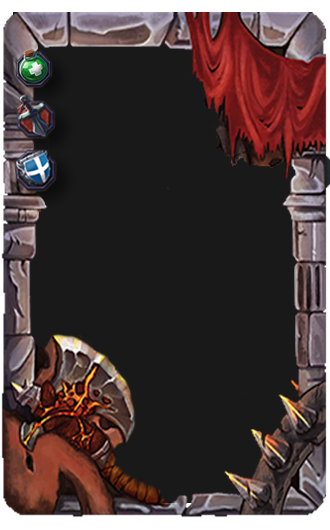
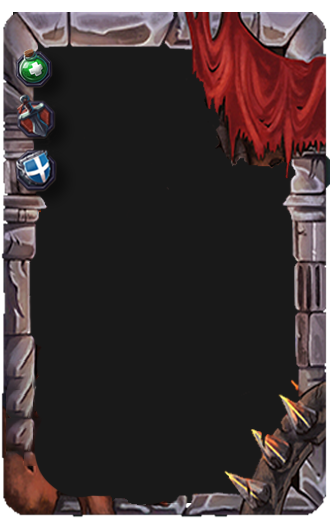
animasi hero

Changed region(s): [[0.0, 0.634, 0.4848, 0.966]]

diff --git a/src/project/pbo/states/GameState.java b/src/project/pbo/states/GameState.java
@@ -4,10 +4,7 @@ import project.pbo.Handler;
 import project.pbo.account.User;
 import project.pbo.game.Card;
 import project.pbo.game.PlayerCard;
-import project.pbo.game.enemy.Enemy;
-import project.pbo.game.enemy.Mummy;
-import project.pbo.game.enemy.Shaman;
-import project.pbo.game.enemy.Slime;
+import project.pbo.game.enemy.*;
 import project.pbo.game.helper.*;
 import project.pbo.gfx.Assets;
 import project.pbo.gfx.Text;
@@ -25,6 +22,9 @@ public class GameState extends State implements SIZE {
     private int gold = 0;
     private final Rectangle exitBtn = new Rectangle(1000, 13, 35, 35);
     private final Rectangle replayBtn = new Rectangle(597,340, 175, 35 );
+
+    private int ctrHero;
+    private int timerHero;
 
     private final Rectangle continueBtn = new Rectangle(597,340, 175, 35 );
     private final Rectangle loseBtn = new Rectangle(292,340, 200, 35 );
@@ -159,7 +159,16 @@ public class GameState extends State implements SIZE {
 
 //        Hero Memu
         g.drawImage(Assets.heroMenu, 650, 60, 400, 555, null);
-//        Text.drawString(g, user.getUsername(), 870, 125, true, Color.WHITE, Assets.regulerFont);
+        g.drawImage(Assets.player[ctrHero], 680, 260, 350, 350, null);
+
+        if(timerHero == 0) {
+            ctrHero = (ctrHero == Assets.player.length - 1) ? 0 : ++ctrHero;
+            this.timerHero++;
+        } else {
+            if(timerHero == 7) this.timerHero = 0;
+            else this.timerHero++;
+        }
+        Text.drawString(g, user.getUsername(), 855, 285, true, Color.WHITE, Assets.regulerFont);
         Text.drawString(g, pc.getHealth() + " / " + pc.getMaxHealth(), 730, 140, false, Color.WHITE, Assets.mediumFont);
         Text.drawString(g, pc.getDamage()+"", 730, 190, false, Color.WHITE, Assets.mediumFont);
         Text.drawString(g, pc.getDefend()+"", 730, 245, false, Color.WHITE, Assets.mediumFont);
@@ -349,10 +358,16 @@ public class GameState extends State implements SIZE {
                         else if (rand < 90) cards[i][j] = new Healing();
                         else cards[i][j] = new Poison();
                     } else {
-                        int stage = step/5 + 1;
-                        if (rand < 40) cards[i][j] = new Slime(stage);
+                        int stage = step/10 + 1;
+                        if (rand < 50) cards[i][j] = new Slime(stage);
                         if (rand < 80) cards[i][j] = new Mummy(stage);
-                        else cards[i][j] = new Shaman(stage);
+                        else {
+                            if (step - 1 < 100) cards[i][j] = new Shaman(stage);
+                            else {
+                                if (rand < 90) cards[i][j] = new Shaman(stage);
+                                else cards[i][j] = new Necromancer(stage-10);
+                            }
+                        }
                     }
 
                 }

diff --git a/src/project/pbo/gfx/Assets.java b/src/project/pbo/gfx/Assets.java
@@ -19,6 +19,7 @@ public class Assets {
     public static BufferedImage[] slimeEnemy = new BufferedImage[8];
     public static BufferedImage[] necroEnemy = new BufferedImage[8];
     public static BufferedImage[] shamanEnemy = new BufferedImage[11];
+    public static BufferedImage[] player = new BufferedImage[21];
 
     public static BufferedImage mainLogo, logoSTTS, avatar;
     public static BufferedImage loginBG, loadingBG, rankingBG, popUp, textArea;
@@ -96,6 +97,7 @@ public class Assets {
         potongSprite(slimeEnemy, "slime");
         potongSprite(necroEnemy, "necromancer");
         potongSprite(shamanEnemy, "shaman");
+        potongSprite(player, "player");
 
 //        GAME
         card = ImageLoader.loadImage("/images/content/test.png");
@@ -123,6 +125,8 @@ public class Assets {
                 necroEnemy[i] = ImageLoader.loadImage("/images/sprite/Enemy/necromancer.png").getSubimage(159*i, 0, 159, 196);
             } else if(nameBuffer.equalsIgnoreCase("shaman")){
                 shamanEnemy[i] = ImageLoader.loadImage("/images/sprite/Enemy/shaman.png").getSubimage(160*i, 0, 160, 237);
+            }else if(nameBuffer.equalsIgnoreCase("player")){
+                player[i] = ImageLoader.loadImage("/images/sprite/player.png").getSubimage(640*i, 0, 640, 640);
             }
         }
     }

diff --git a/src/project/pbo/game/PlayerCard.java b/src/project/pbo/game/PlayerCard.java
@@ -6,6 +6,10 @@ import java.awt.*;
 
 public class PlayerCard extends Card {
 
+
+    private int ctrEnemy;
+    private int timer;
+
     private int health, defend, damage, maxHealth;
     public PlayerCard(int health, int defend, int damage, int maxHealth) {
         super( "Hero");
@@ -17,7 +21,15 @@ public class PlayerCard extends Card {
 
     @Override
     protected void cetak(Graphics g, int x, int y) {
-        g.drawImage(Assets.card, (x*184)+40+this.x, (y*177)+80+this.y, 184, 177, null);
+        g.drawImage(Assets.player[ctrEnemy], (x*184)+57+this.x, (y*177)+90+this.y, 140, 130, null);
+
+        if(timer == 0) {
+            ctrEnemy = (ctrEnemy == Assets.player.length - 1) ? 0 : ++ctrEnemy;
+            this.timer++;
+        } else {
+            if(timer == 7) this.timer = 0;
+            else this.timer++;
+        }
     }
 
     public int getMaxHealth() {

diff --git a/src/project/pbo/Game.java b/src/project/pbo/Game.java
@@ -53,12 +53,12 @@ public class Game implements Runnable {
 //        TODO Uncomment
         User user = new User("test", "123");
 
-//        State state = new GameState(handler, user);
-//        state.playMusic();
-
-        State state = new MainMenu(handler, user);
+        State state = new GameState(handler, user);
         state.playMusic();
 
+//        State state = new MainMenu(handler, user);
+//        state.playMusic();
+//
 //        State state = new IntroState(handler);
 
         State.setCurrentState(state);

diff --git a/src/project/pbo/states/MainMenu.java b/src/project/pbo/states/MainMenu.java
@@ -58,7 +58,7 @@ public class MainMenu extends State implements SIZE {
     public void playMusic(){
         clip = Assets.audioMenu;
         clip.start();
-        handler.setVol(clip);
+        handler.setVol(clip,0.5);
         clip.loop(Clip.LOOP_CONTINUOUSLY);
     }
 
